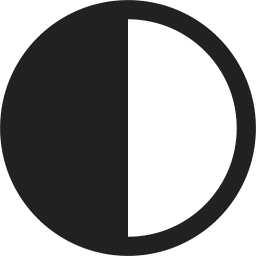
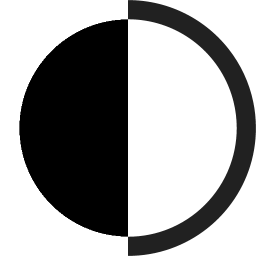
Add dark mode

diff --git a/_includes/header.html b/_includes/header.html
@@ -31,11 +31,13 @@
             }
           </style>
           <script>
-            if (localStorage.getItem("isDark") == null) {
-              localStorage.setItem("isDark", false);
+            if (window.localStorage.getItem("theme") == null) {
+              window.localStorage.setItem("theme", "light");
             }
-            var isDark = localStorage.getItem("isDark");
+            var isDark = window.localStorage.getItem("theme") == "dark" ? true : false;
             if (isDark) {
+              // prevents switching from dark to light
+              isDark = false;
               switchSkin()
             }
             
@@ -44,11 +46,12 @@
               if (isDark) {
                 metaTag.href = "/assets/css/style.css";
                 isDark = false;
+                window.localStorage.setItem("theme", "light");
               } else {
                 metaTag.href = "/assets/css/dark.css";
                 isDark = true;
+                window.localStorage.setItem("theme", "dark");
               }
-              localStorage.setItem("isDark", isDark);
             }
             document.getElementById("light-dark").addEventListener("click", switchSkin);
           </script>
